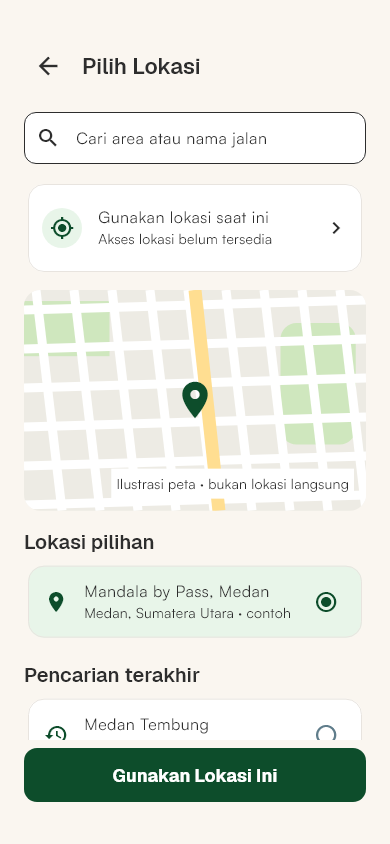
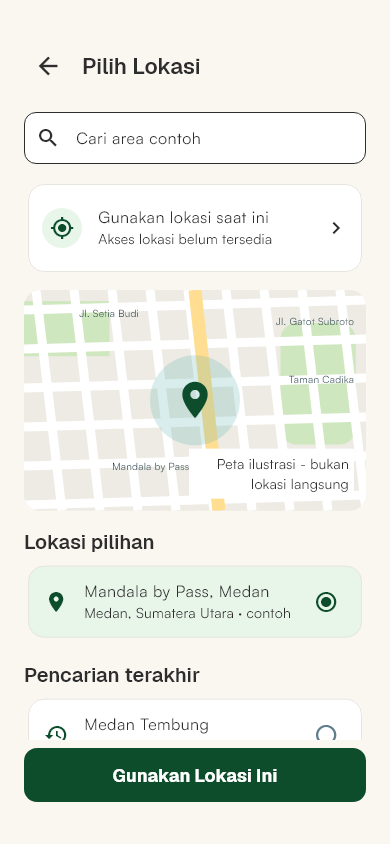
fix(discovery): retain selected area and search example locations

diff --git a/app/lib/features/discovery/location_selection_page.dart b/app/lib/features/discovery/location_selection_page.dart
@@ -30,7 +30,10 @@ const _mainRoadEnd = .57;
 /// Local preview of the location selection design; no GPS or map service runs.
 class LocationSelectionPage extends StatefulWidget {
   /// Creates the area selector.
-  const new({super.key});
+  const new({this.initialArea = 'Mandala by Pass, Medan', super.key});
+
+  /// Example area currently selected in this app session.
+  final String initialArea;
 
   @override
   State<LocationSelectionPage> createState() => _LocationSelectionPageState();
@@ -39,6 +42,13 @@ class LocationSelectionPage extends StatefulWidget {
 class _LocationSelectionPageState extends State<LocationSelectionPage> {
   final _search = TextEditingController();
   String _selected = _sampleAreas.first.name;
+
+  @override
+  void initState() {
+    super.initState();
+    _selected = widget.initialArea;
+  }
+
   String _query = '';
 
   @override
@@ -49,11 +59,10 @@ class _LocationSelectionPageState extends State<LocationSelectionPage> {
 
   @override
   Widget build(BuildContext context) {
-    final recent = _sampleAreas
-        .skip(1)
-        .where(
-          (area) => area.name.toLowerCase().contains(_query.toLowerCase()),
-        );
+    final matches = _sampleAreas.where(
+      (area) => area.name.toLowerCase().contains(_query.toLowerCase()),
+    );
+    final recent = matches.where((area) => area.name != _selected);
     return Scaffold(
       backgroundColor: PanganKitaColors.surfaceWarm,
       body: SafeArea(
@@ -82,7 +91,7 @@ class _LocationSelectionPageState extends State<LocationSelectionPage> {
                     controller: _search,
                     onChanged: (value) => setState(() => _query = value.trim()),
                     decoration: InputDecoration(
-                      hintText: 'Cari area atau nama jalan',
+                      hintText: 'Cari area contoh',
                       prefixIcon: const Icon(Icons.search),
                       suffixIcon: _query.isEmpty
                           ? null
@@ -125,19 +134,21 @@ class _LocationSelectionPageState extends State<LocationSelectionPage> {
                     style: Theme.of(context).textTheme.titleLarge,
                   ),
                   const SizedBox(height: 8),
-                  _AreaTile(
-                    name: _selected,
-                    subtitle: 'Medan, Sumatera Utara · contoh',
-                    selected: true,
-                    onTap: null,
-                  ),
+                  if (_query.isEmpty ||
+                      matches.any((area) => area.name == _selected))
+                    _AreaTile(
+                      name: _selected,
+                      subtitle: 'Medan, Sumatera Utara · contoh',
+                      selected: true,
+                      onTap: null,
+                    ),
                   const SizedBox(height: 20),
                   Text(
                     'Pencarian terakhir',
                     style: Theme.of(context).textTheme.titleLarge,
                   ),
                   const SizedBox(height: 8),
-                  if (recent.isEmpty)
+                  if (matches.isEmpty)
                     const Padding(
                       padding: EdgeInsets.all(16),
                       child: Text('Area contoh tidak ditemukan.'),
@@ -245,11 +256,40 @@ class _IllustrativeMap extends StatelessWidget {
         children: [
           CustomPaint(painter: _MapPainter()),
           const Center(
-            child: Icon(
-              Icons.location_on,
-              size: 44,
-              color: PanganKitaColors.brandPrimaryStrong,
+            child: DecoratedBox(
+              decoration: BoxDecoration(
+                color: Color(0x3345A6A3),
+                shape: BoxShape.circle,
+              ),
+              child: SizedBox.square(
+                dimension: 90,
+                child: Icon(
+                  Icons.location_on,
+                  size: 44,
+                  color: PanganKitaColors.brandPrimaryStrong,
+                ),
+              ),
             ),
+          ),
+          const Positioned(
+            top: 16,
+            left: 55,
+            child: _MapStreetLabel('Jl. Setia Budi'),
+          ),
+          const Positioned(
+            top: 24,
+            right: 12,
+            child: _MapStreetLabel('Jl. Gatot Subroto'),
+          ),
+          const Positioned(
+            bottom: 38,
+            left: 88,
+            child: _MapStreetLabel('Mandala by Pass'),
+          ),
+          const Positioned(
+            top: 82,
+            right: 12,
+            child: _MapStreetLabel('Taman Cadika'),
           ),
           const Positioned(
             right: 12,
@@ -258,13 +298,31 @@ class _IllustrativeMap extends StatelessWidget {
               decoration: BoxDecoration(color: Colors.white),
               child: Padding(
                 padding: EdgeInsets.all(5),
-                child: Text('Ilustrasi peta · bukan lokasi langsung'),
+                child: SizedBox(
+                  width: 155,
+                  child: Text(
+                    'Peta ilustrasi - bukan lokasi langsung',
+                    textAlign: TextAlign.right,
+                  ),
+                ),
               ),
             ),
           ),
         ],
       ),
     ),
+  );
+}
+
+class _MapStreetLabel extends StatelessWidget {
+  const new(this.label);
+
+  final String label;
+
+  @override
+  Widget build(BuildContext context) => Text(
+    label,
+    style: const TextStyle(color: Color(0xFF14313A), fontSize: 10),
   );
 }
 

diff --git a/app/test/location_selection_page_test.dart b/app/test/location_selection_page_test.dart
@@ -1,6 +1,7 @@
 import 'package:flutter/material.dart';
 import 'package:flutter_test/flutter_test.dart';
 import 'package:pangankita/app/app_routes.dart';
+import 'package:pangankita/app/pangan_kita_app.dart';
 import 'package:pangankita/app/pangan_kita_theme.dart';
 import 'package:pangankita/features/discovery/home_page.dart';
 import 'package:pangankita/features/discovery/location_selection_page.dart';
@@ -54,6 +55,78 @@ void main() {
     expect(find.text('Medan Tembung'), findsOneWidget);
     expect(find.text('Medan Kota'), findsNothing);
     expect(find.textContaining('bukan lokasi langsung'), findsOneWidget);
+  });
+
+  testWidgets('selected area survives selector reopening and tab changes', (
+    tester,
+  ) async {
+    await tester.pumpWidget(const PanganKitaApp());
+    await tester.pump(const Duration(seconds: 2));
+    await tester.pumpAndSettle();
+    tester
+        .state<NavigatorState>(find.byType(Navigator))
+        .pushReplacementNamed(AppRoutes.home)
+        .ignore();
+    await tester.pumpAndSettle();
+    await tester.tap(find.text('Mandala by Pass, Medan').first);
+    await tester.pumpAndSettle();
+    await tester.scrollUntilVisible(
+      find.text('Medan Tembung'),
+      180,
+      scrollable: find.byType(Scrollable).first,
+    );
+    await tester.tap(find.text('Medan Tembung'));
+    await tester.tap(find.text('Gunakan Lokasi Ini'));
+    await tester.pumpAndSettle();
+    await tester.tap(find.text('Medan Tembung').first);
+    await tester.pumpAndSettle();
+    await tester.scrollUntilVisible(
+      find.text('Medan Tembung'),
+      180,
+      scrollable: find.byType(Scrollable).first,
+    );
+    expect(find.text('Medan Tembung'), findsOneWidget);
+    tester.state<NavigatorState>(find.byType(Navigator)).pop();
+    await tester.pumpAndSettle();
+    await tester.tap(find.text('Pesanan').last);
+    await tester.pumpAndSettle();
+    await tester.tap(find.text('Beranda').last);
+    await tester.pumpAndSettle();
+    expect(find.text('Medan Tembung'), findsOneWidget);
+  });
+
+  testWidgets('search includes selected area and reports no matches', (
+    tester,
+  ) async {
+    await tester.pumpWidget(
+      MaterialApp(
+        theme: PanganKitaTheme.light,
+        home: const LocationSelectionPage(),
+      ),
+    );
+    await tester.enterText(find.byType(TextField), 'Mandala');
+    await tester.pumpAndSettle();
+    await tester.scrollUntilVisible(
+      find.text('Mandala by Pass, Medan'),
+      180,
+      scrollable: find.byType(Scrollable).first,
+    );
+    expect(find.text('Mandala by Pass, Medan'), findsOneWidget);
+    expect(find.text('Area contoh tidak ditemukan.'), findsNothing);
+    await tester.scrollUntilVisible(
+      find.byType(TextField),
+      -180,
+      scrollable: find.byType(Scrollable).first,
+    );
+    await tester.enterText(find.byType(TextField), 'Tidak Ada Area');
+    await tester.pumpAndSettle();
+    await tester.scrollUntilVisible(
+      find.text('Area contoh tidak ditemukan.'),
+      180,
+      scrollable: find.byType(Scrollable).first,
+    );
+    expect(find.text('Area contoh tidak ditemukan.'), findsOneWidget);
+    expect(find.text('Mandala by Pass, Medan'), findsNothing);
   });
 
   for (final width in [320.0, 360.0, 390.0, 412.0]) {

diff --git a/app/lib/features/discovery/home_page.dart b/app/lib/features/discovery/home_page.dart
@@ -16,10 +16,24 @@ const _categoryLabelGap = 6.0;
 const _categoryFontSize = 9.0;
 const _nearbySectionGap = 12.0;
 
+void _ignoreAreaChange(String area) {
+  if (area.isEmpty) throw ArgumentError.value(area, 'area');
+}
+
 /// Searchable local reference feed with category filtering.
 class HomePage extends StatefulWidget {
   /// Creates the demo feed.
-  const new({super.key});
+  const new({
+    this.initialLocation = 'Mandala by Pass, Medan',
+    this.onLocationChanged = _ignoreAreaChange,
+    super.key,
+  });
+
+  /// The example area selected for this app session.
+  final String initialLocation;
+
+  /// Reports an area change to the app-session owner.
+  final ValueChanged<String> onLocationChanged;
 
   @override
   State<HomePage> createState() => _HomePageState();
@@ -30,9 +44,22 @@ class _HomePageState extends State<HomePage> {
   String _category = 'Semua';
   String _location = 'Mandala by Pass, Medan';
 
+  @override
+  void initState() {
+    super.initState();
+    _location = widget.initialLocation;
+  }
+
   Future<void> _chooseLocation() async {
-    final selected = await Navigator.pushNamed(context, AppRoutes.location);
-    if (mounted && selected is String) setState(() => _location = selected);
+    final selected = await Navigator.pushNamed(
+      context,
+      AppRoutes.location,
+      arguments: _location,
+    );
+    if (mounted && selected is String) {
+      setState(() => _location = selected);
+      widget.onLocationChanged(selected);
+    }
   }
 
   void _selectCategory(String category) => setState(() => _category = category);

diff --git a/app/lib/app/pangan_kita_app.dart b/app/lib/app/pangan_kita_app.dart
@@ -31,6 +31,7 @@ class PanganKitaApp extends StatefulWidget {
 
 class _PanganKitaAppState extends State<PanganKitaApp> {
   final _cart = DemoCart();
+  String _selectedArea = 'Mandala by Pass, Medan';
 
   @override
   void dispose() {
@@ -53,8 +54,15 @@ class _PanganKitaAppState extends State<PanganKitaApp> {
       AppRoutes.recover: (context) => const OtpPage(recovery: true),
       AppRoutes.password: (context) => const AuthPage.password(),
       AppRoutes.success: (context) => const PasswordSuccessPage(),
-      AppRoutes.home: (context) => const HomePage(),
-      AppRoutes.location: (context) => const LocationSelectionPage(),
+      AppRoutes.home: (context) => HomePage(
+        initialLocation: _selectedArea,
+        onLocationChanged: (area) => setState(() => _selectedArea = area),
+      ),
+      AppRoutes.location: (context) => LocationSelectionPage(
+        initialArea:
+            ModalRoute.of(context)?.settings.arguments as String? ??
+            _selectedArea,
+      ),
       AppRoutes.nearbyStores: (context) => const NearbyStoresPage(),
       AppRoutes.orders: (context) => const OrdersPage(),
       AppRoutes.chat: (context) => const ChatPage(),

diff --git a/docs/IMPLEMENTATION.md b/docs/IMPLEMENTATION.md
@@ -70,7 +70,7 @@ there is no push delivery, persisted notification, or actual order event.
 Tests cover the demo flows, responsive layouts, typography, and social artwork.
 Home's area label opens `/location`, an illustrative local area selector. It
 does not request device location, display live map tiles, or filter food by
-distance. Selecting an example area changes only the Home header label.
+distance. Selecting an example area changes only the Home header label for the current app session; it survives Home tab navigation and selector reopening without persistence.
 
 Retained infrastructure: `app/android/`, Flutter/Dart package manifest and
 lockfile, strict analyzer/DCL/Dartrics rules, pinned development tool versions,
